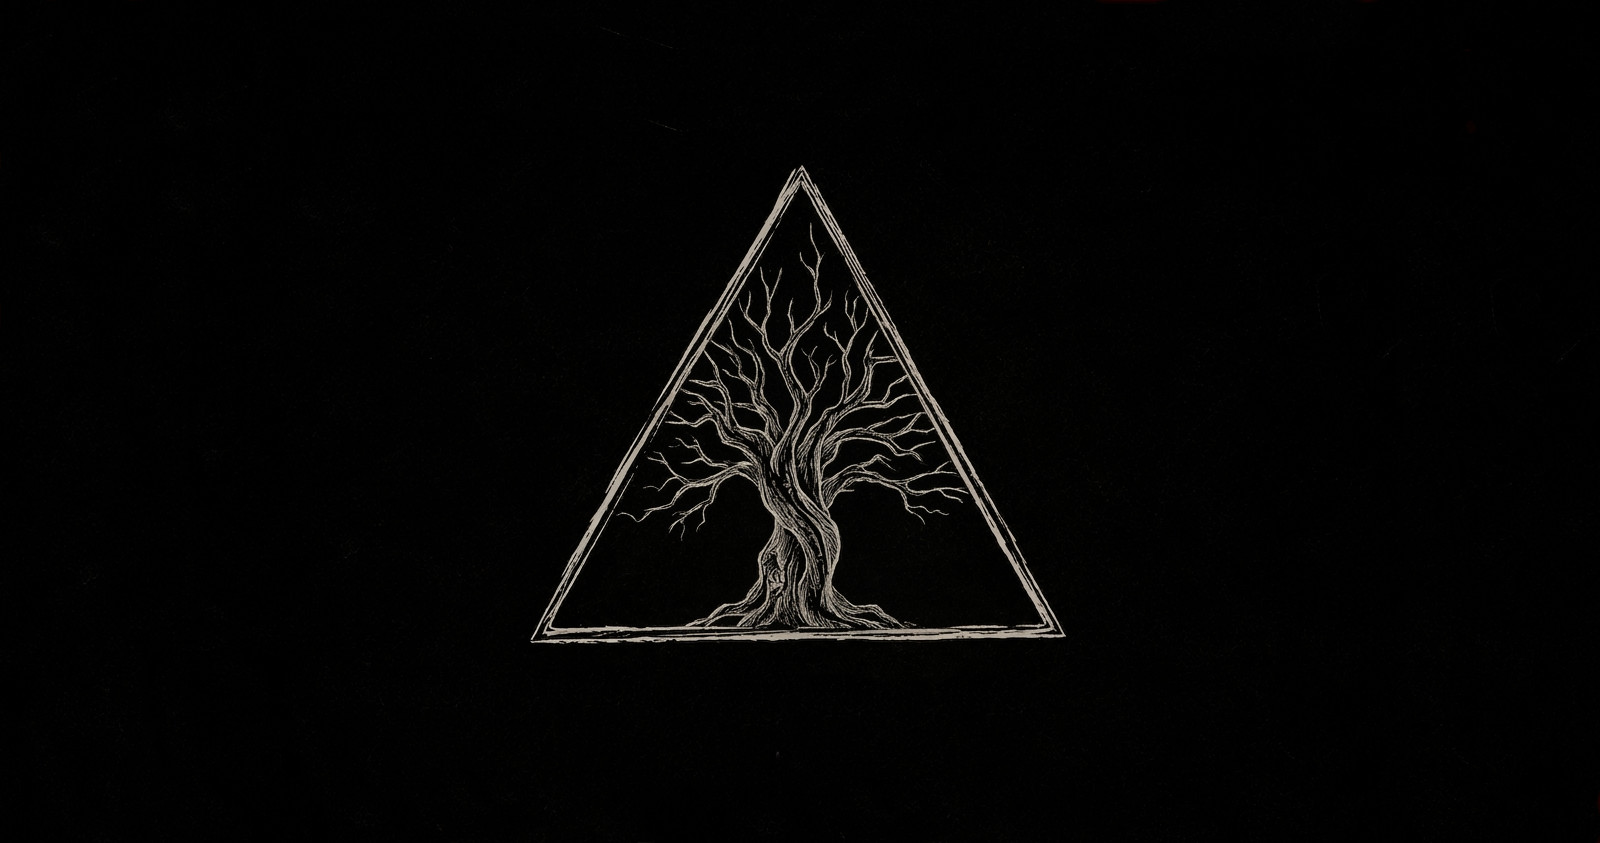
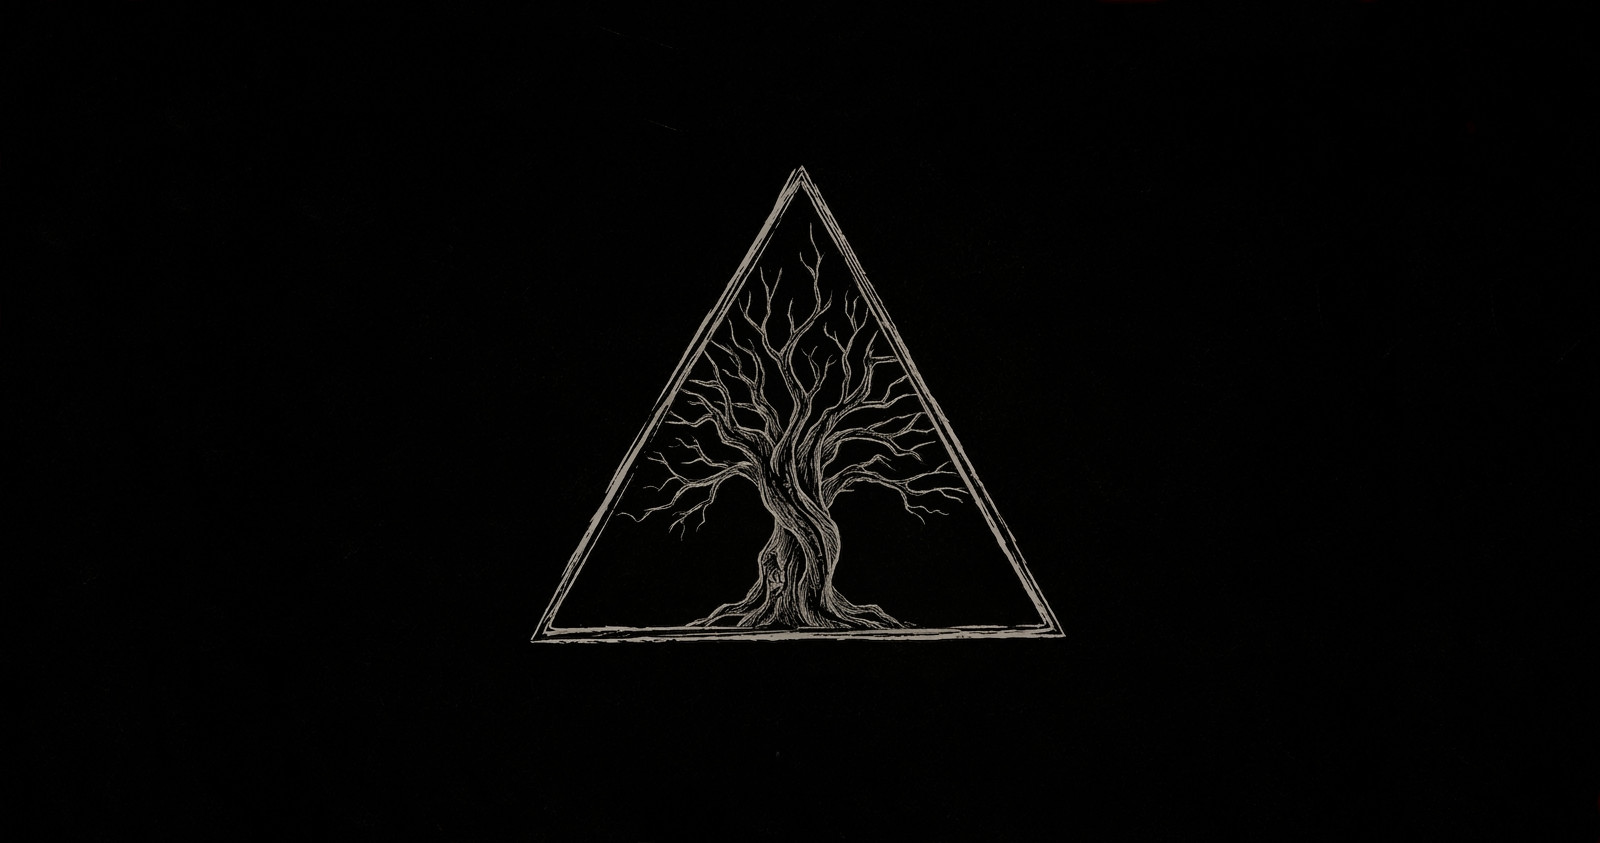
yep
update image

diff --git a/index.html b/index.html
@@ -58,7 +58,7 @@
 					<header>
 						<h2>Who I Am</h2>
 					</header>
-					<p>Jeremy Gould - Director of Dead Tree Films Ltd, with 5+ years experience in screenwriting and producing micro budget films.</p>
+					<p>Jeremy Gould - Director of Dead Tree Films Ltd, with 5+ years experience screenwriting and producing micro budget films.</p>
 				</div>
 				<a href="#work" class="button style2 down anchored">Next</a>
 			</section>
@@ -68,8 +68,8 @@
 				<div class="content">
 					<header>
 						<h2>My Work</h2>
-						<p>A range of micro-budget projects, the most recent (and ambitious) is an upcoming short film GaRi Will Get You -
-							which shines a light on unmaintainable body standards in the modelling industry and terrifying impact of AI in creative spaces.</p>
+						<p>A range of micro-budget projects, the most recent is an upcoming short film GaRi Will Get You -
+							which shines a light on unmaintainable body standards in the modelling industry and the terrifying impact of AI in creative spaces.</p>
 					</header>
 
 					<!-- Gallery  -->
@@ -102,7 +102,7 @@
 				<div class="content">
 					<header>
 						<h2>Say Hello.</h2>
-						<p>Lorem ipsum dolor sit amet et sapien sed elementum egestas dolore condimentum.</p>
+						<p>If you want to know more or are interested in any kind of collaboration, please reach out.</p>
 					</header>
 					<div class="box">
 						<form method="post" action="#">

diff --git a/assets/css/main.css b/assets/css/main.css
@@ -2247,7 +2247,7 @@ input, select, textarea {
 		background: url("images/overlay.png"), url("../../images/intro.jpg");
 		background-size: 256px 256px, cover;
 		background-attachment: fixed, fixed;
-		background-position: top left, bottom center;
+		background-position: center; /* top left, bottom center; */
 		background-repeat: repeat, no-repeat;
 	}
 